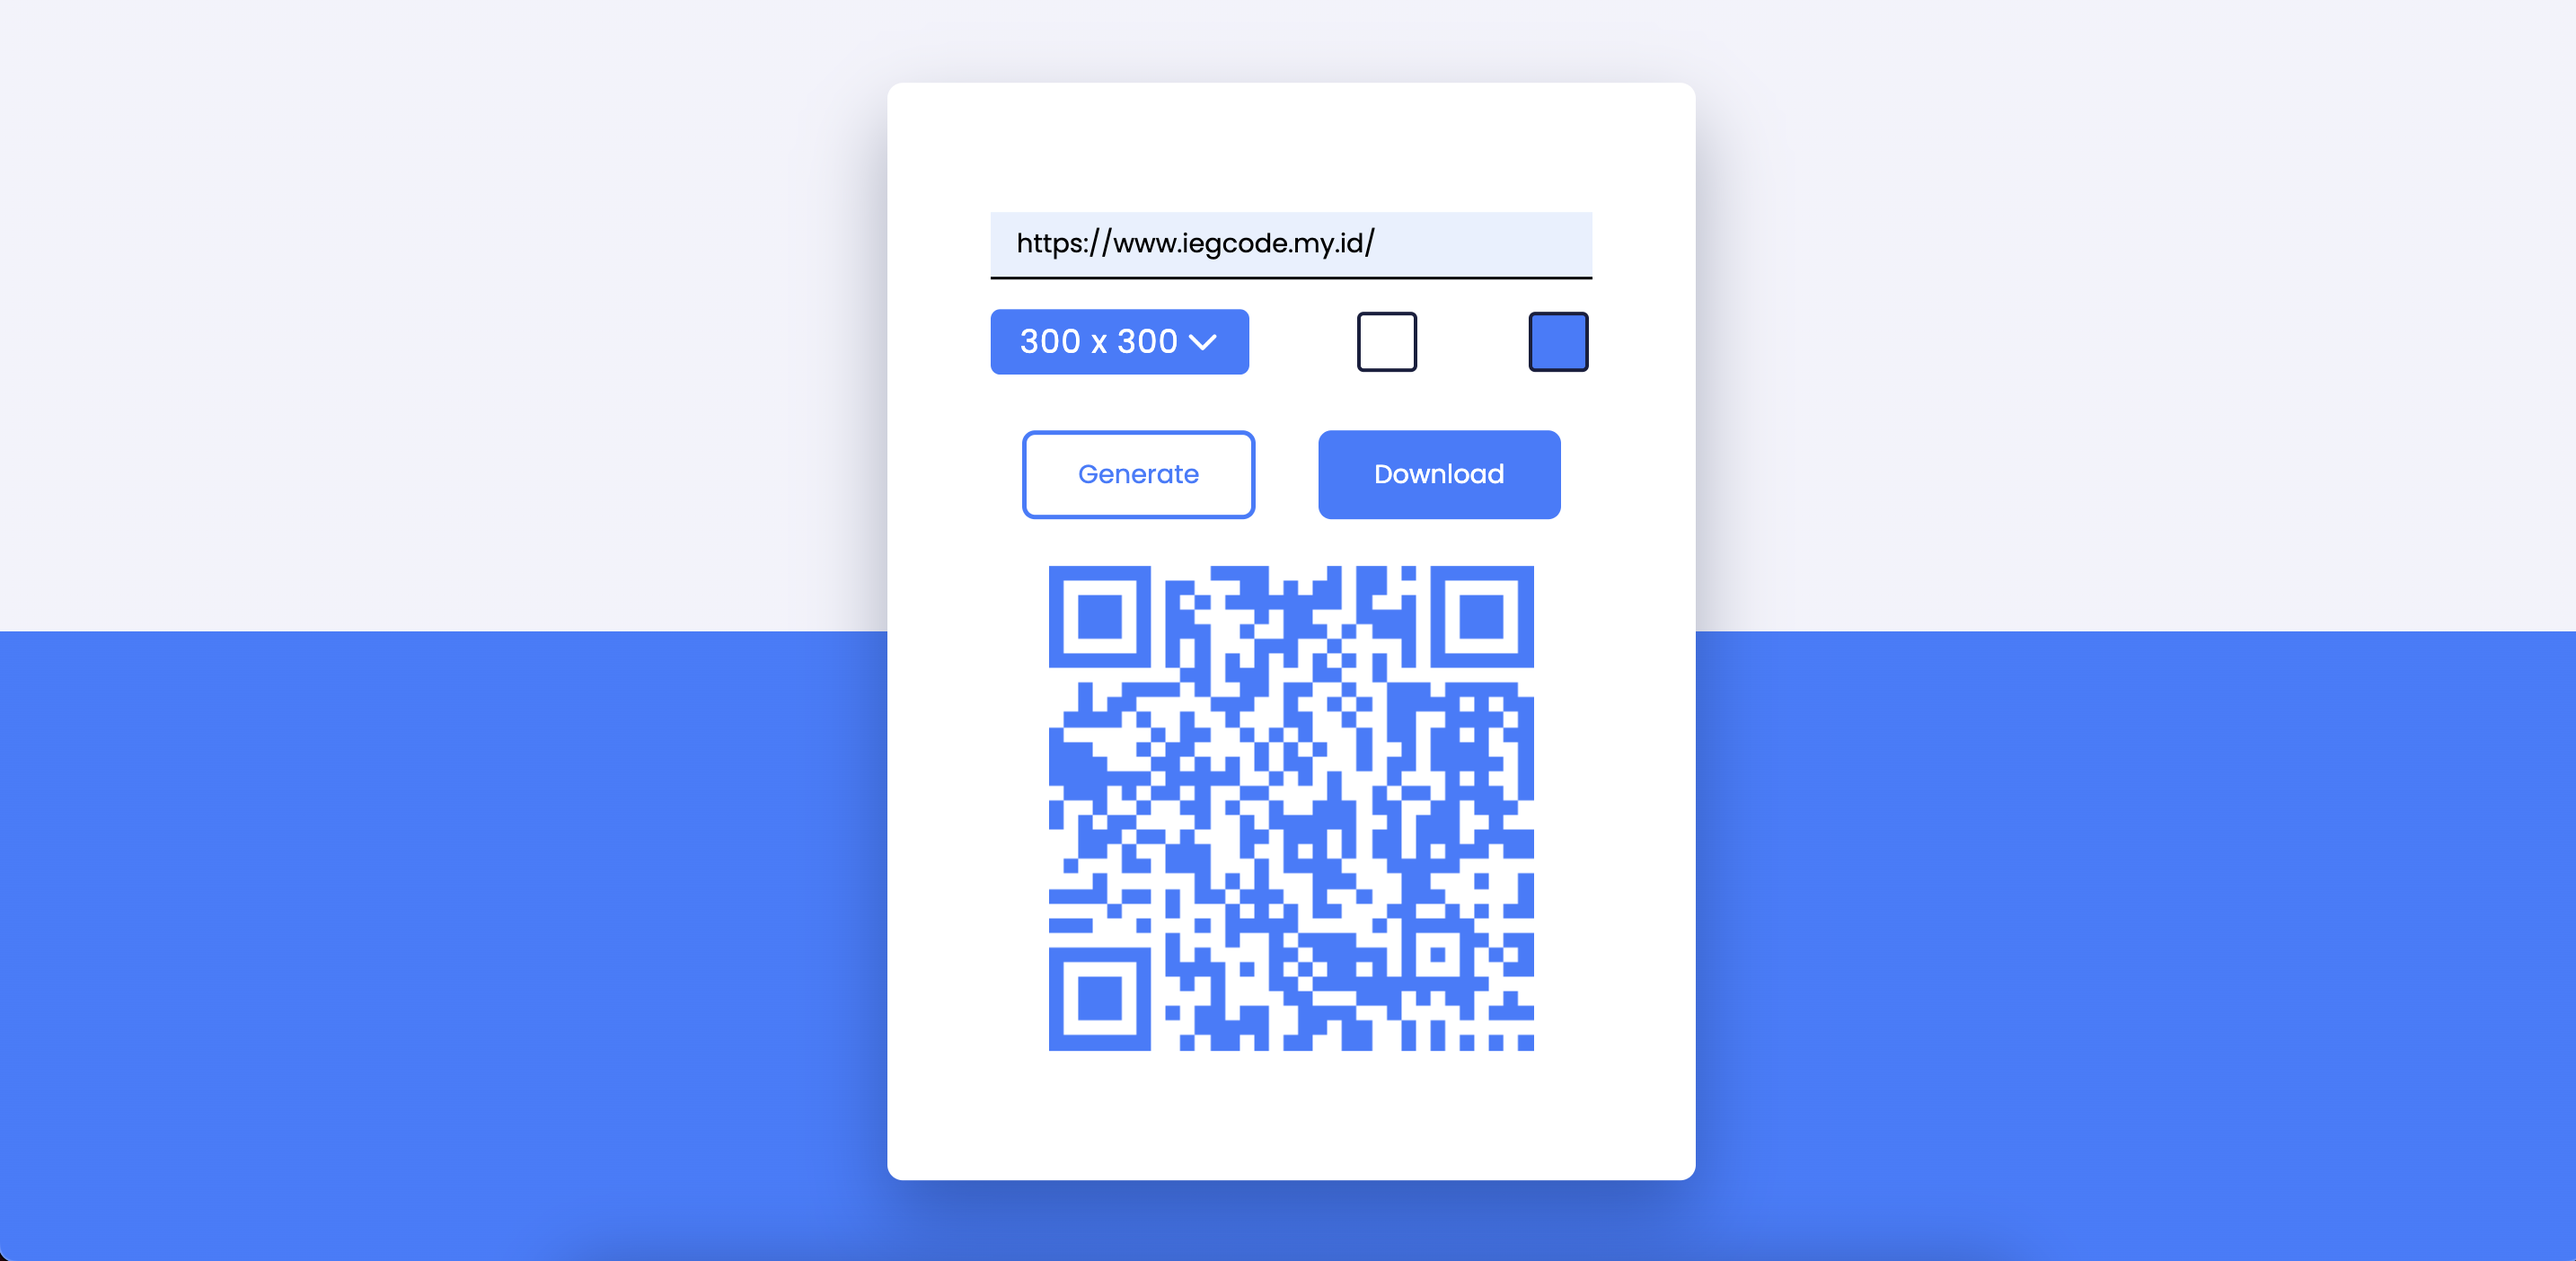
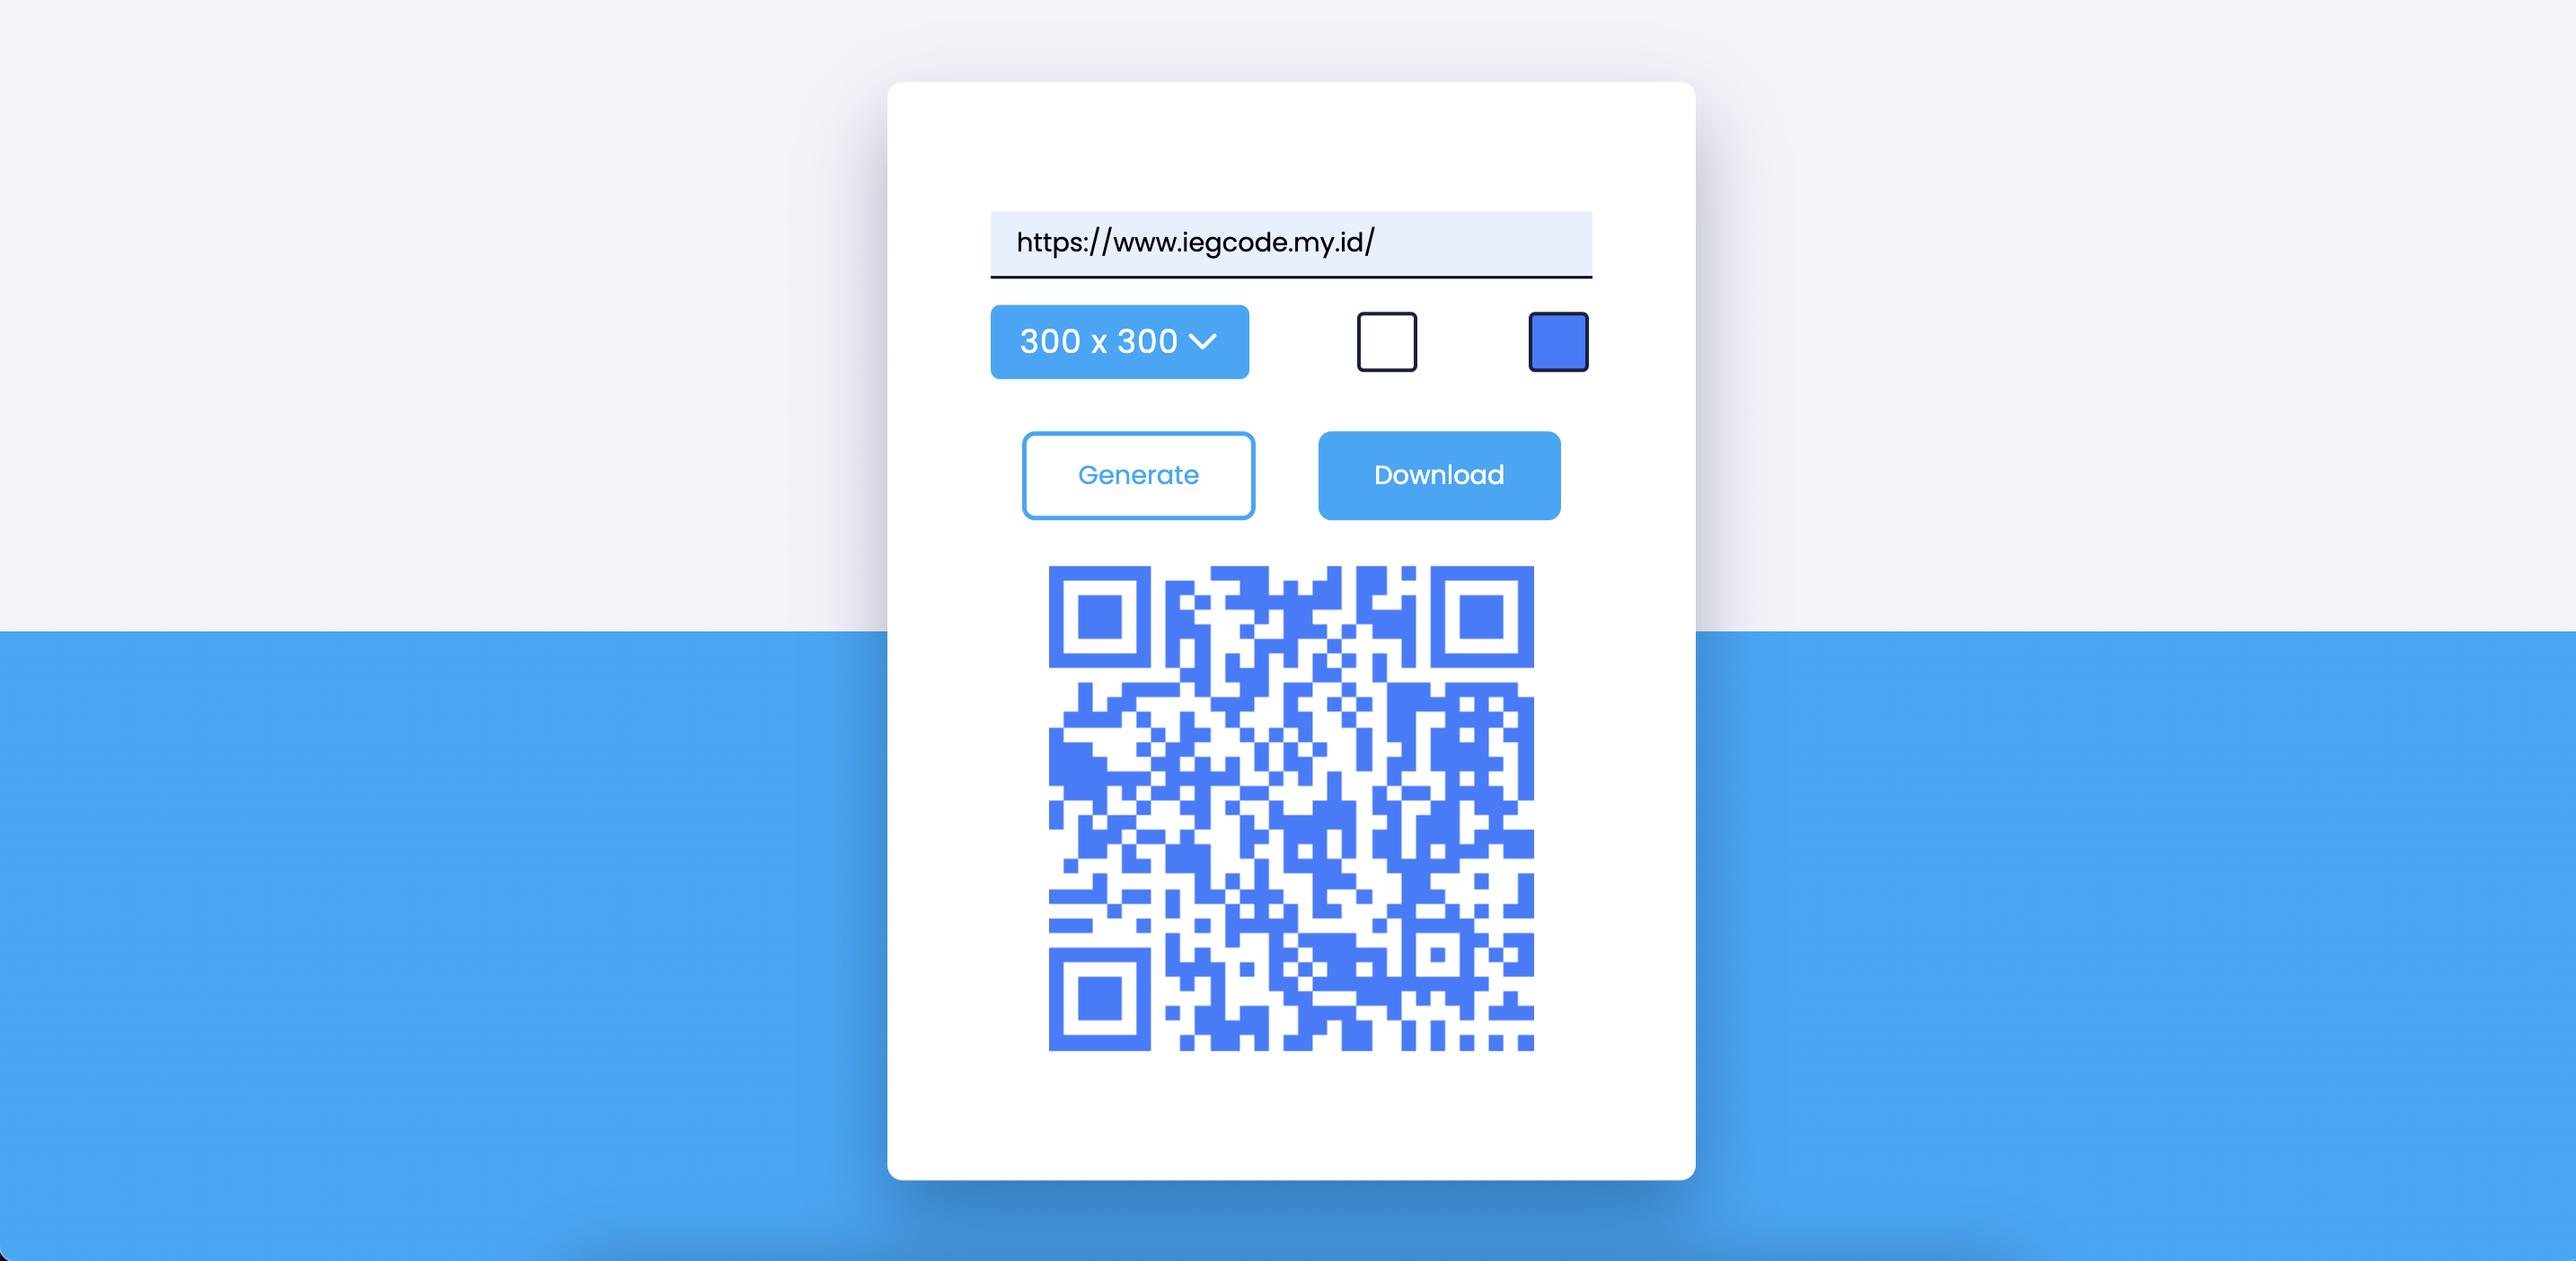
update

diff --git a/qr/style.css b/qr/style.css
@@ -6,7 +6,7 @@
 }
 body {
   height: 100vh;
-  background: linear-gradient(#f3f3fb 50%, #377dff 50%);
+  background: linear-gradient(#f3f3fb 50%, #00a8fa 50%);
 }
 .wrapper {
   background-color: #ffffff;
@@ -40,7 +40,7 @@ select {
   font-size: 1.25em;
   letter-spacing: 0.5px;
   cursor: pointer;
-  background-color: #377dff;
+  background-color: #00a8fa;
   border: none;
   color: #ffffff;
   background-image: url("arrow.png");
@@ -55,7 +55,7 @@ select::-ms-expand {
 }
 select option {
   background-color: #ffffff;
-  color: #377dff;
+  color: #00a8fa;
   letter-spacing: 0.06em;
   font-weight: 400;
   font-size: 1.12em;
@@ -98,14 +98,14 @@ select option {
 }
 .box button {
   background-color: transparent;
-  color: #377dff;
-  border: 0.18em solid #377dff;
+  color: #00a8fa;
+  border: 0.18em solid #00a8fa;
 }
 .box a {
-  background-color: #377dff;
+  background-color: #00a8fa;
   color: #ffffff;
   text-decoration: none;
-  border: 0.18em solid #377dff;
+  border: 0.18em solid #00a8fa;
 }
 .container {
   display: flex;
